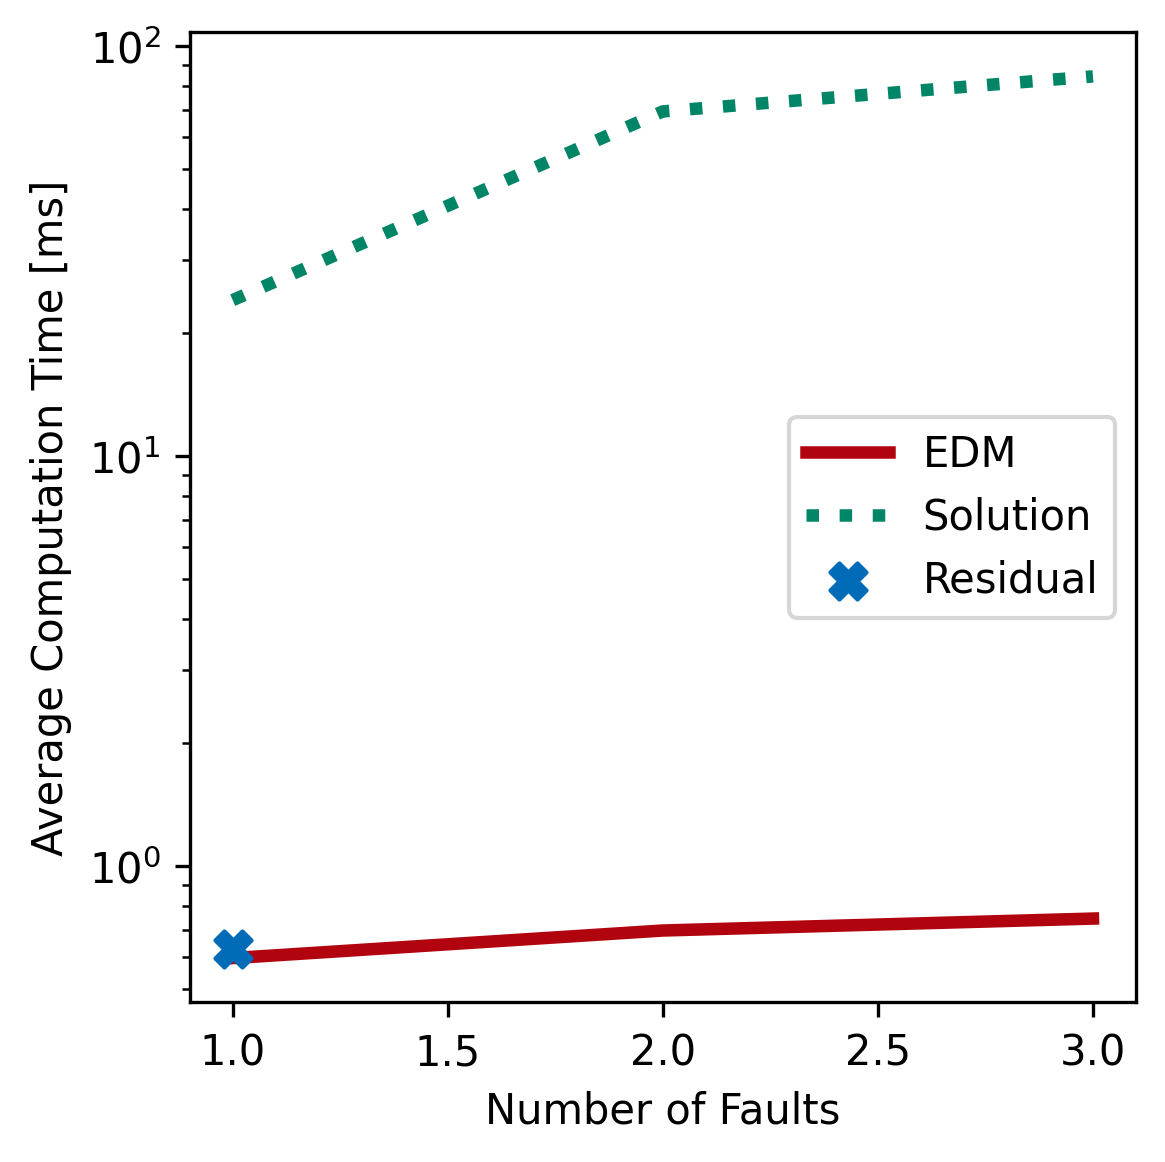
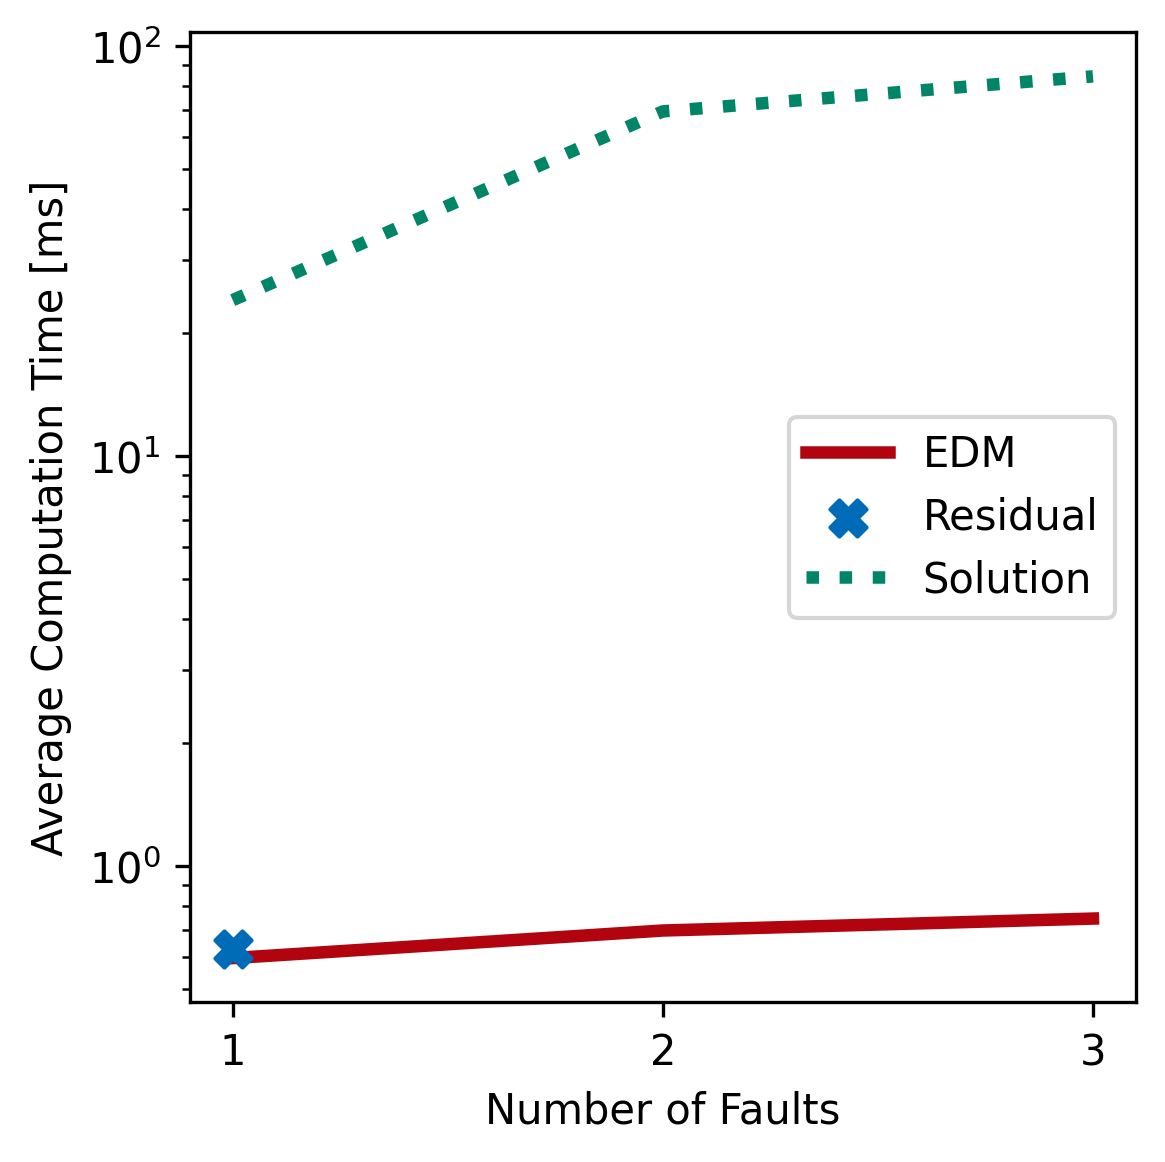
add line fit and improved xticks to plots

diff --git a/ion_figures.py b/ion_figures.py
@@ -403,7 +403,7 @@ def plot_chemnitz_timing(file_dir, trace_list):
     colors = ["#b1040e","#006cb8","#008566"]
     styles = ["-","--",":"]
 
-    fig = plt.figure()
+    fig, ax = plt.subplots()
     fig.set_size_inches(4,4)
     for ii, method in enumerate(methods):
         # print("method: ",method)
@@ -427,6 +427,8 @@ def plot_chemnitz_timing(file_dir, trace_list):
     plt.yscale("log")
     plt.ylabel("Average Computation Time [ms]")
     plt.xlabel("Number of Faults")
+    ax.set_xticks([1,2,3])
+    ax.set_xticks([1,2,3])
     fig.tight_layout()
     fig.savefig(os.path.join("log","figures","chemnitz_timing.png"),
             format="png",
@@ -505,6 +507,10 @@ def plot_google_timing(file_dir, directory):
                 label = labels[2]
             plt.plot(key_list,avg_times,label=label, color=color,
                     linewidth=3.0, linestyle = style)
+            a,b = np.polyfit(key_list, avg_times, 1)
+            plt.plot(key_list, a*np.array(key_list)+b, color=color,
+                     linewidth=1.0)
+            print("line fit m,x for",method,":",a,b)
     plt.legend()
     plt.yscale("log")
     plt.ylabel("Average Computation Time [ms]")
